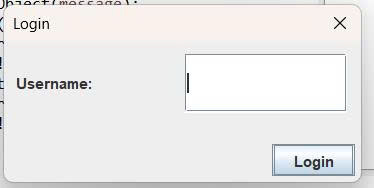
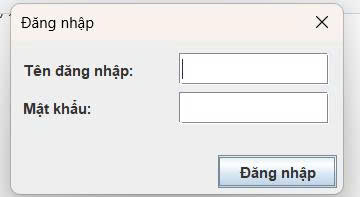
update

Changed region(s): [[0.0, 0.0, 1.0, 0.984], [0.0611, 0.5053, 0.275, 0.6117]]

diff --git a/src/client/LoginDialog.java b/src/client/LoginDialog.java
@@ -7,52 +7,69 @@ import java.awt.event.ActionListener;
 
 public class LoginDialog extends JDialog {
     private JTextField usernameField;
+    private JPasswordField passwordField;
     private JButton loginButton;
     private String username;
-    
+    private String password;
+
     public LoginDialog(Frame parent) {
-        super(parent, "Login", true);
+        super(parent, "Đăng nhập", true);
         setupUI();
     }
-    
+
     private void setupUI() {
         setLayout(new BorderLayout(10, 10));
-        setSize(300, 150);
+        setSize(280, 160); // tăng chút để vừa 2 ô nhập
         setLocationRelativeTo(null);
         setResizable(false);
-        
-        JPanel inputPanel = new JPanel(new GridLayout(1, 2, 5, 5));
+
+        // Panel chứa Username + Password
+        JPanel inputPanel = new JPanel(new GridLayout(2, 2, 5, 5));
         inputPanel.setBorder(BorderFactory.createEmptyBorder(10, 10, 10, 10));
-        
-        inputPanel.add(new JLabel("Username:"));
+
+        inputPanel.add(new JLabel("Tên đăng nhập:"));
         usernameField = new JTextField();
+        usernameField.setPreferredSize(new Dimension(120, 25));
         inputPanel.add(usernameField);
-        
+
+        inputPanel.add(new JLabel("Mật khẩu:"));
+        passwordField = new JPasswordField();
+        passwordField.setPreferredSize(new Dimension(120, 25));
+        inputPanel.add(passwordField);
+
+        // Panel nút bấm
         JPanel buttonPanel = new JPanel(new FlowLayout(FlowLayout.RIGHT));
         loginButton = new JButton("Đăng nhập");
         buttonPanel.add(loginButton);
-        
+
         add(inputPanel, BorderLayout.CENTER);
         add(buttonPanel, BorderLayout.SOUTH);
-        
+
         loginButton.addActionListener(new ActionListener() {
             @Override
             public void actionPerformed(ActionEvent e) {
                 username = usernameField.getText().trim();
-                if (!username.isEmpty()) {
-                    dispose();
+                password = new String(passwordField.getPassword()).trim();
+                if (!username.isEmpty() && !password.isEmpty()) {
+                    dispose(); // đóng dialog nếu hợp lệ
                 } else {
-                    JOptionPane.showMessageDialog(LoginDialog.this, 
-                        "Please enter a username", "Error", JOptionPane.ERROR_MESSAGE);
+                    JOptionPane.showMessageDialog(LoginDialog.this,
+                            "Vui lòng nhập đầy đủ tên đăng nhập và mật khẩu",
+                            "Lỗi",
+                            JOptionPane.ERROR_MESSAGE);
                 }
             }
         });
-        
-        // Enter key to login
+
+        // Enter key sẽ tự động bấm nút đăng nhập
         getRootPane().setDefaultButton(loginButton);
     }
-    
+
     public String getUsername() {
         return username;
+    }
+
+    public String getPassword() {
+        return password;
     }
 }
